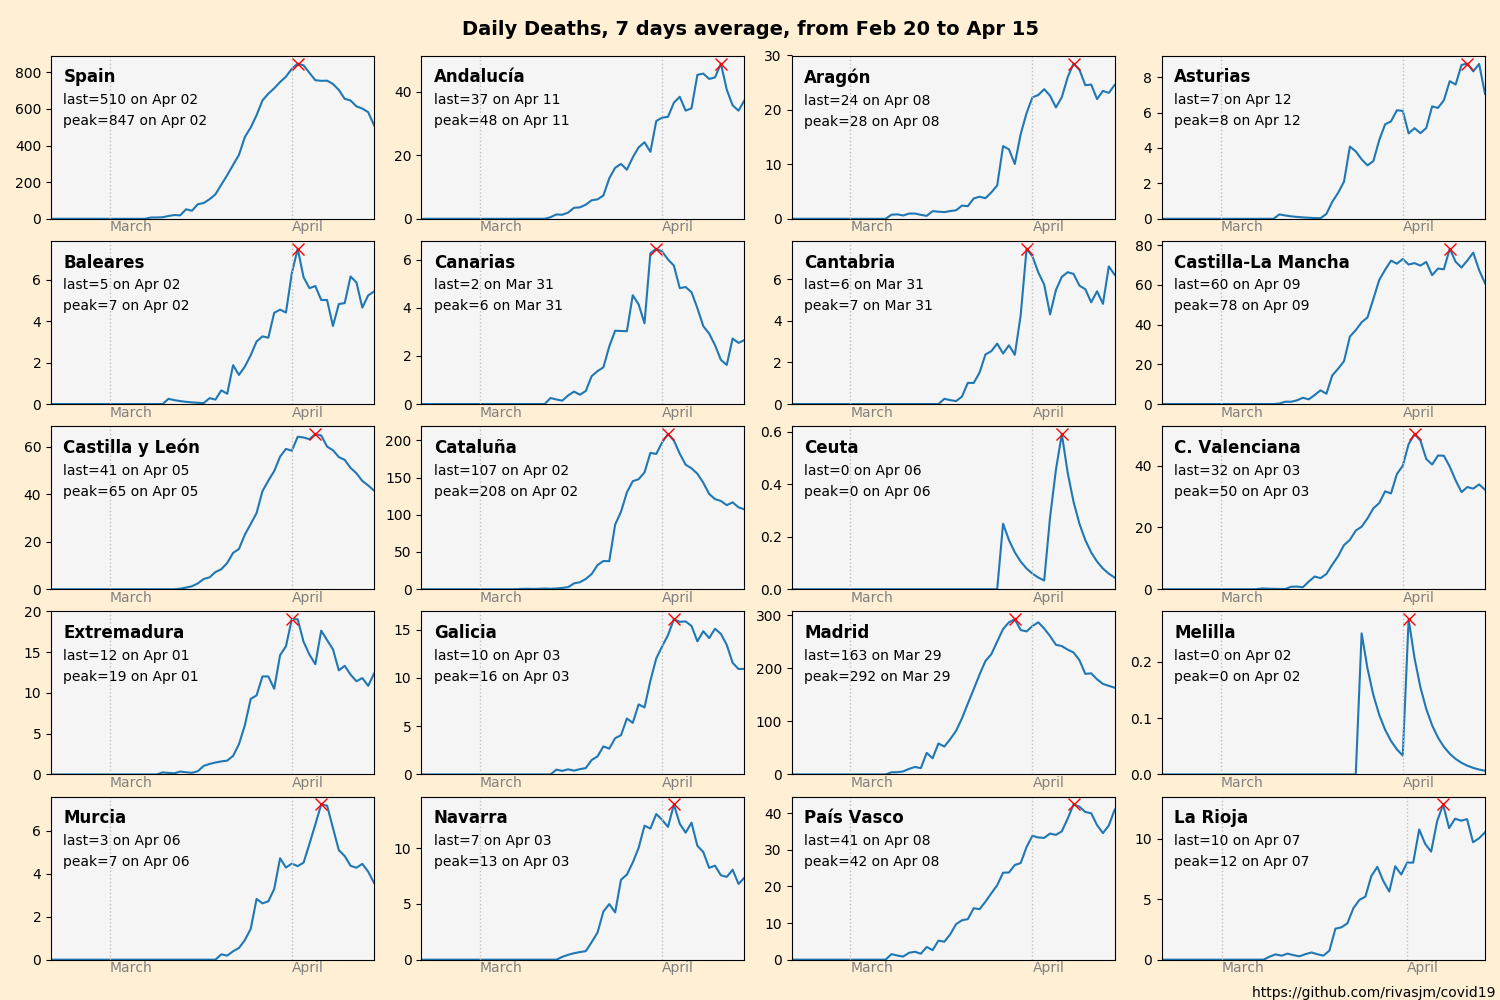
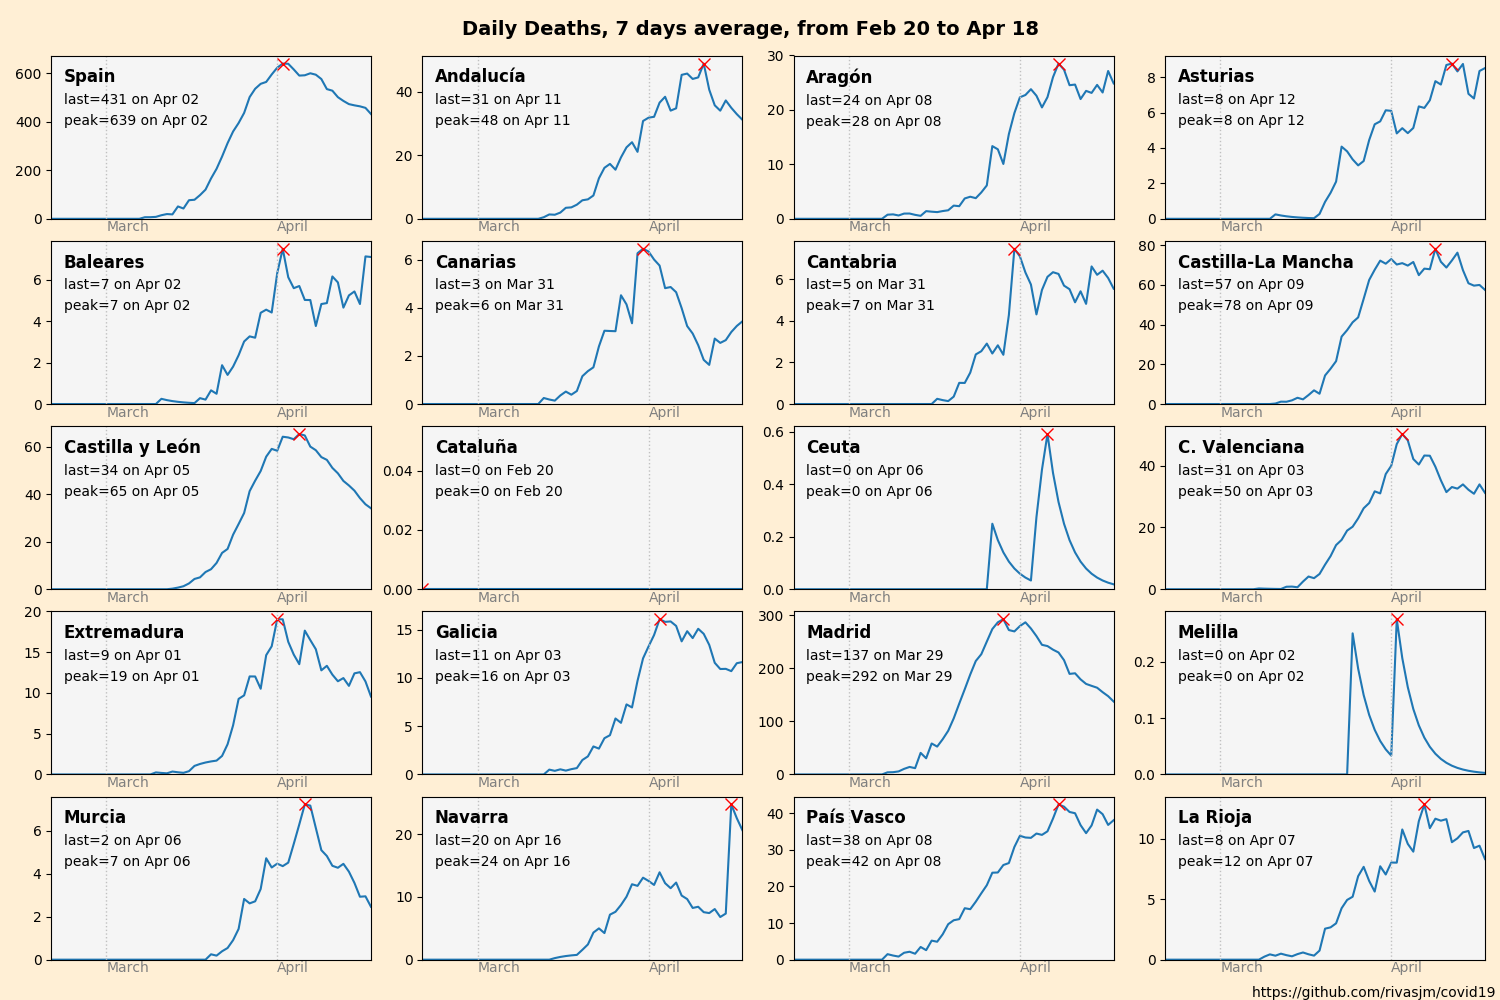
update

diff --git a/data.py b/data.py
@@ -75,7 +75,7 @@ class DataSet(Enum):
             df: pd.DataFrame = pd.read_csv(self.url, header=0, names=[c.label for c in self.cols],
                                            parse_dates=['Date'],
                                            date_parser=lambda x: dt.datetime.strptime(x, '%d/%m/%Y'),
-                                           encoding='mac-roman', skipfooter=5, engine='python')
+                                           encoding='mac-roman', skipfooter=6, engine='python')
         elif self == DataSet.WORLD:
             df: pd.DataFrame = pd.read_csv(self.url, header=0, names=[c.label for c in self.cols],
                                            parse_dates=['Date'],
